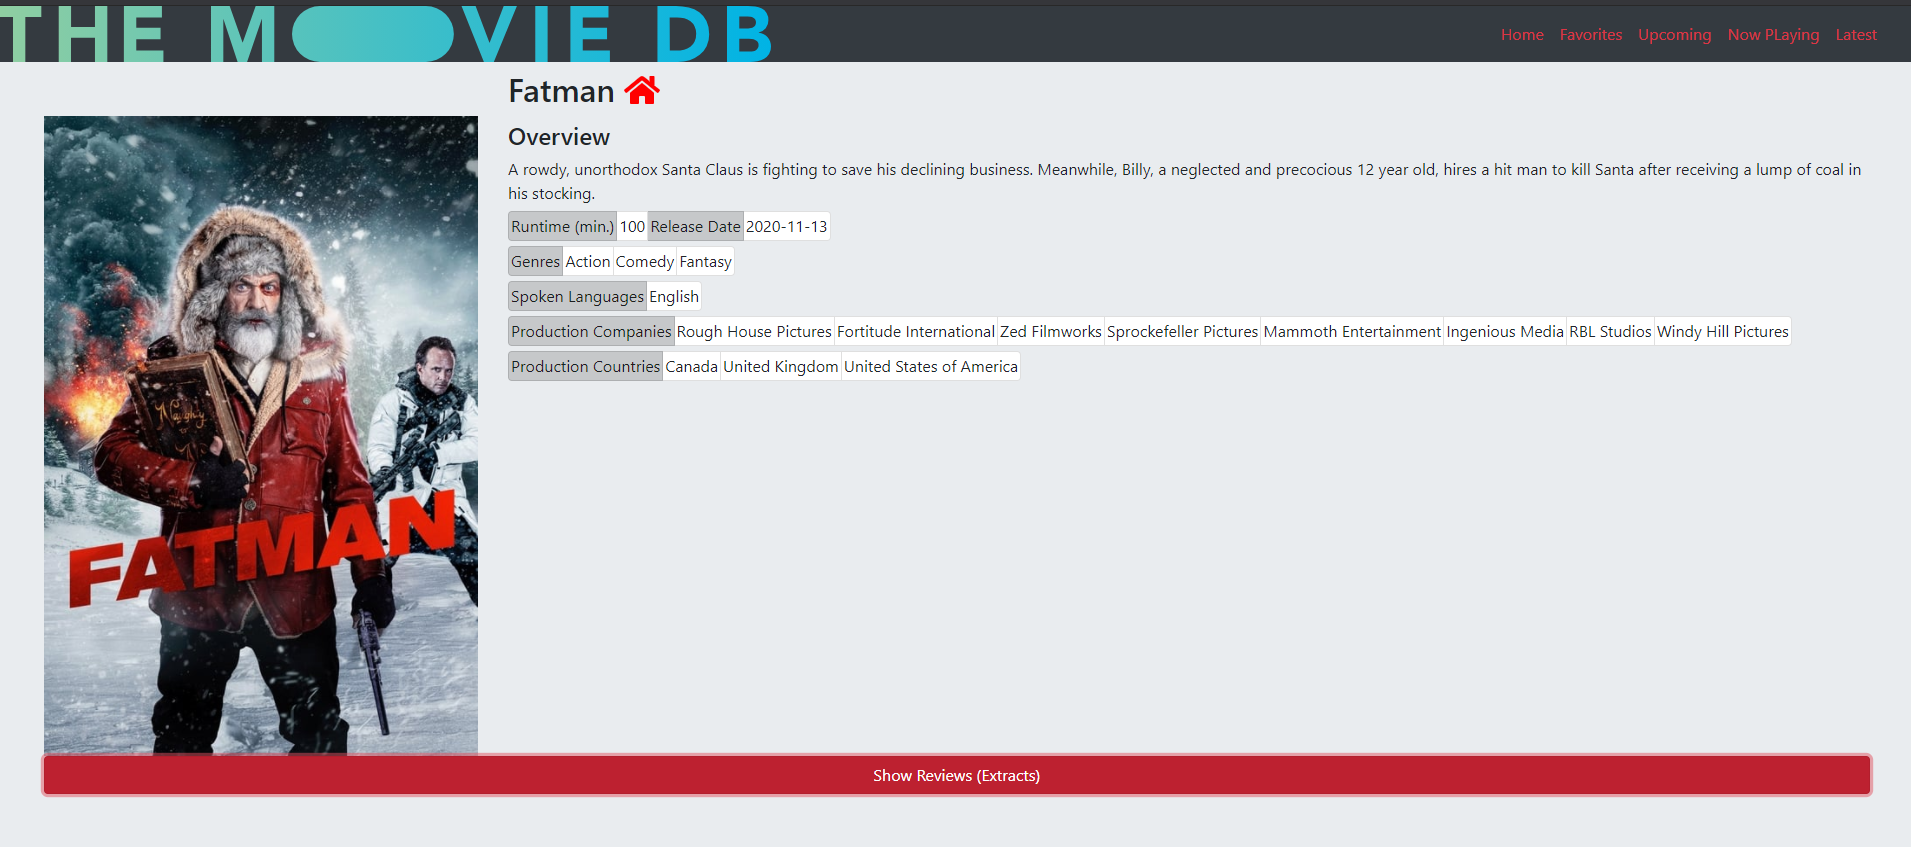
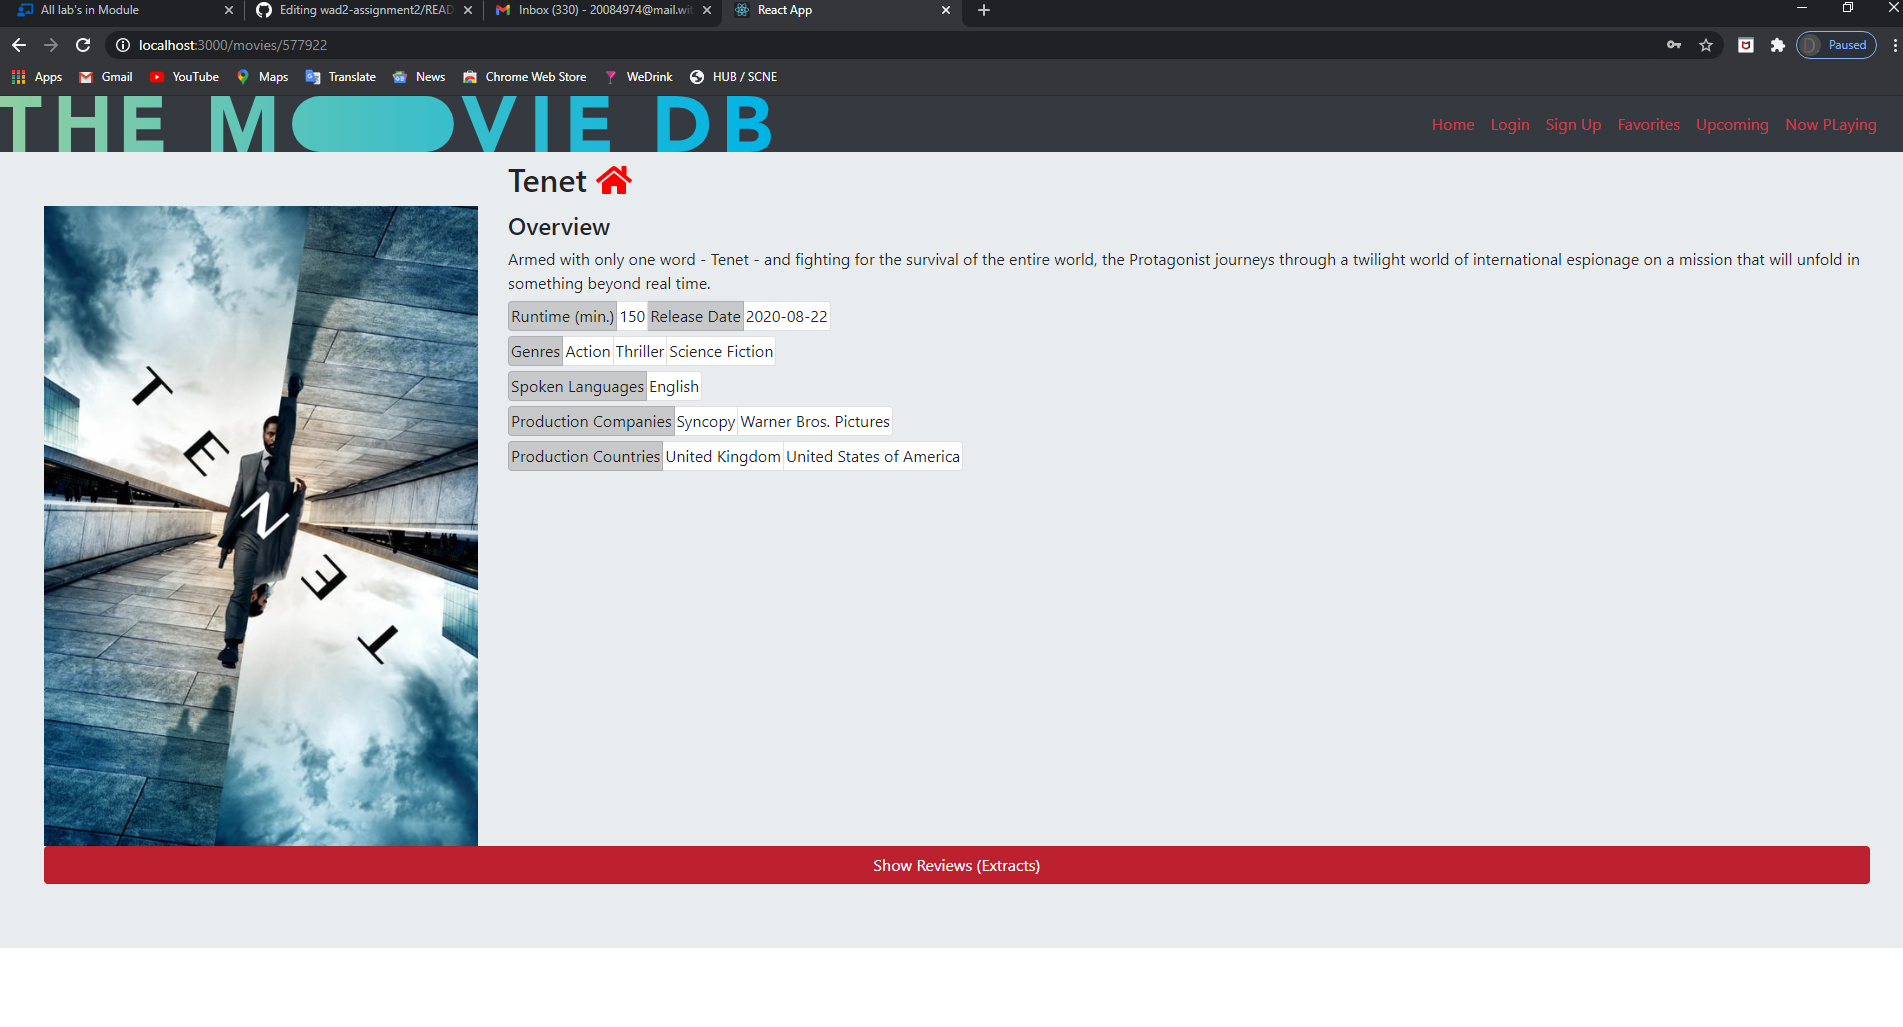
added login and sign up

diff --git a/moviesApp/src/index.js b/moviesApp/src/index.js
@@ -1,6 +1,11 @@
 import React from "react";
 import ReactDOM from "react-dom";
 import "../node_modules/bootstrap/dist/css/bootstrap.css";
+import LoginPage from "./pages/loginPage";
+import SignUpPage from "./pages/signUpPage";
+import PrivateRoute from "./routes/privateRoute";
+import AuthProvider from "./contexts/authContext";
+import UserHomePage from "./pages/userHomePage"
 import HomePage from "./pages/homePage";
 import MoviePage from './pages/movieDetailsPage'
 import { BrowserRouter, Route, Redirect, Switch, Link } from "react-router-dom"   
@@ -18,24 +23,29 @@ const App = () => {
   return (
       <BrowserRouter>
         <div className="jumbotron">
+          <AuthProvider>
           <SiteHeader />      {}
           <div className="container-fluid">
           <MoviesContextProvider>     {}
           <GenresContextProvider>    {}
             <Switch>
-          <Route exact path="/reviews/form" component={AddMovieReviewPage} />    
-          <Route path="/reviews/:id" component={MovieReviewPage} />
-          <Route exact path="/movies/favorites" component={FavoriteMoviesPage} />
-          <Route exact path="/movies/upcoming" component={UpcomingMovies}/>
-          <Route exact path="/movies/nowplaying" component={NowPlayingMovies}/>
-          <Route exact path="/movies/latest" component={LatestMovies}/>
-          <Route path="/movies/:id" component={MoviePage} />
+          <PrivateRoute exact path="/reviews/form" component={AddMovieReviewPage} />    
+          <PrivateRoute path="/reviews/:id" component={MovieReviewPage} />
+          <PrivateRoute exact path="/movies/favorites" component={FavoriteMoviesPage} />
+          <PrivateRoute exact path="/movies/upcoming" component={UpcomingMovies}/>
+          <PrivateRoute exact path="/movies/nowplaying" component={NowPlayingMovies}/>
+          <PrivateRoute exact path="/movies/latest" component={LatestMovies}/>
+          <PrivateRoute path="/movies/:id" component={MoviePage} />
+          <PrivateRoute path="/home" component={UserHomePage}/>
+          <Route exact path="/login" component={LoginPage} />
+          <Route path="/signup" component={SignUpPage} />
           <Route path="/" component={HomePage} />
           <Redirect from="*" to="/" />
         </Switch>
         </GenresContextProvider>    
         </MoviesContextProvider>   
       </div>
+      </AuthProvider>
     </div>
   </BrowserRouter>
   );

diff --git a/moviesApp/src/pages/signUpPage.js b/moviesApp/src/pages/signUpPage.js
@@ -1,0 +1,54 @@
+import React, { useContext, useState } from "react";
+import { Redirect } from "react-router-dom";
+import { AuthContext } from '../contexts/authContext';
+import { Input, Button, Icon, Form, Label } from "semantic-ui-react";
+
+const SignUpPage = props => {
+  const context = useContext(AuthContext)
+  const [userName, setUserName] = useState("");
+  const [password, setPassword] = useState("");
+  const [passwordAgain, setPasswordAgain] = useState("");
+  const [registered, setRegistered] = useState(false);
+
+  const register = () => {
+    if (password.length > 0 && password === passwordAgain) {
+      context.register(userName, password);
+      setRegistered(true);
+    }
+  }
+
+
+
+  if (registered === true) {
+    return <Redirect to="/login" />;
+  }
+
+  return (
+    <>
+      <br></br>
+      <h2>SignUp page</h2>
+      <p>You must register a username and password to log in </p>
+      <div className="row">
+      <div className="col-3">
+      <Form>
+        <Form.Field>
+          <label>Username</label>
+          <input value={userName} placeholder="Username" onChange={e => {setUserName(e.target.value);}}></input><br />
+        </Form.Field>
+        <Form.Field>
+          <label>Password</label>
+          <input value={password} type="password" placeholder="password" onChange={e => {setPassword(e.target.value);}}></input><br />
+        </Form.Field>
+        <Form.Field>
+          <label>Password Again</label>
+          <input value={passwordAgain} type="password" placeholder="password again" onChange={e => {setPasswordAgain(e.target.value);}}></input><br />
+        </Form.Field>
+      <Button type='submit' onClick={register}>Register</Button>
+      </Form>
+      </div>
+      </div>
+    </>
+  );
+};
+
+export default SignUpPage;

diff --git a/moviesApp/src/contexts/authContext.js b/moviesApp/src/contexts/authContext.js
@@ -1,0 +1,51 @@
+import React, { useState, createContext } from "react";
+import { login, signup } from "../api/movie-api";
+
+export const AuthContext = createContext(null);
+
+const AuthContextProvider = (props) => {
+  const existingToken = localStorage.getItem("token");
+  const [isAuthenticated, setIsAuthenticated] = useState(false);
+  const [authToken, setAuthToken] = useState(existingToken);
+  const [userName, setUserName] = useState("");
+
+  const setToken = (data) => {
+    localStorage.setItem("token", data);
+    setAuthToken(data);
+  }
+
+  const authenticate = async (username, password) => {
+    const result = await login(username, password);
+    if (result.token) {
+      setToken(result.token)
+      setIsAuthenticated(true);
+      setUserName(username);
+    }
+  };
+
+  const register = async (username, password) => {
+    const result = await signup(username, password);
+    console.log(result.code);
+    return (result.code == 201) ? true : false;
+  };
+
+  const signout = () => {
+    setTimeout(() => setIsAuthenticated(false), 100);
+  }
+
+  return (
+    <AuthContext.Provider
+      value={{
+        isAuthenticated,
+        authenticate,
+        register,
+        signout,
+        userName
+      }}
+    >
+      {props.children}
+    </AuthContext.Provider>
+  );
+};
+
+export default AuthContextProvider;

diff --git a/moviesApp/src/components/loginForm/index.js b/moviesApp/src/components/loginForm/index.js
@@ -1,0 +1,39 @@
+import React, { useContext, useState } from "react";
+import { Redirect } from "react-router-dom";
+import { AuthContext } from '../../contexts/authContext';
+import { Link } from "react-router-dom";
+import { withRouter } from "react-router-dom";
+
+const LoginForm = props => {
+  const context = useContext(AuthContext)
+  const [userName, setUserName] = useState("");
+  const [password, setPassword] = useState("");
+
+  const login = () => {
+    context.authenticate(userName, password);
+  };
+
+  const { from } = props.location.state || { from: { pathname: "/" } };
+
+  if (context.isAuthenticated === true) {
+    return <Redirect to={from} />;
+  }
+  return (
+    <>
+      <h2>Login page</h2>
+      <p>You must log in to view the protected pages</p>
+      <input id="username" placeholder="user name" onChange={e => {
+        setUserName(e.target.value);
+      }}></input><br />
+      <input id="password" type="password" placeholder="password" onChange={e => {
+        setPassword(e.target.value);
+      }}></input><br />
+      {/* Login web form  */}
+      <button onClick={login}>Log in</button>
+      <p>Not Registered?
+      <Link to="/signup">Sign Up!</Link></p>
+    </>
+  );
+};
+
+export default withRouter(LoginForm);

diff --git a/moviesApp/src/components/siteHeader/index.js b/moviesApp/src/components/siteHeader/index.js
@@ -11,8 +11,18 @@ const SiteHeader = () => {
       <nav className="navbar navbar-expand ">
         <ul className="navbar-nav">
           <li className="nav-item">
-            <Link className="nav-link text-danger" to="/">
+            <Link className="nav-link text-danger" to="/home">
               Home
+            </Link>
+          </li>
+          <li className="nav-item">
+            <Link className="nav-link text-danger" to="/login">
+              Login
+            </Link>
+          </li>
+          <li className="nav-item">
+            <Link className="nav-link text-danger" to="/signUp">
+              Sign Up
             </Link>
           </li>
           <li className="nav-item">
@@ -28,11 +38,6 @@ const SiteHeader = () => {
           <li className="nav-item">
             <Link className="nav-link text-danger" to="/movies/nowplaying">
               Now PLaying
-            </Link>
-          </li>
-          <li className="nav-item">
-            <Link className="nav-link text-danger" to="/movies/latest">
-              Latest
             </Link>
           </li>
         </ul>

diff --git a/moviesApp/src/pages/homePage.js b/moviesApp/src/pages/homePage.js
@@ -1,23 +1,11 @@
-import React, { useContext } from "react";
-import PageTemplate from '../components/templateMovieListPage'
-import {MoviesContext} from '../contexts/moviesContext'
-import AddToFavoritesButton from '../components/buttons/addToFavorites'
+import React from "react";
+import PageTemplate from '../components/templateLoginPage'
 
-const MovieListPage = () => {
-  const context = useContext(MoviesContext);
-  const movies = context.movies.filter((m) => {  
-    return !("favorite" in m);
-  });
 
+const HomePage = () => {
   return (
-    <PageTemplate
-      title="No. Movies"
-      movies={movies}  
-      action={(movie) => {
-        return <AddToFavoritesButton movie={movie} />;
-      }}
-    />
+      <PageTemplate></PageTemplate>
   );
 };
 
-export default MovieListPage;
+export default HomePage;

diff --git a/moviesApp/src/pages/userHomePage.js b/moviesApp/src/pages/userHomePage.js
@@ -1,0 +1,23 @@
+import React, { useContext } from "react";
+import PageTemplate from '../components/templateMovieListPage'
+import {MoviesContext} from '../contexts/moviesContext'
+import AddToFavoritesButton from '../components/buttons/addToFavorites'
+
+const MovieListPage = () => {
+  const context = useContext(MoviesContext);
+  const movies = context.movies.filter((m) => {  
+    return !("favorite" in m);
+  });
+
+  return (
+    <PageTemplate
+      title="No. Movies"
+      movies={movies}  
+      action={(movie) => {
+        return <AddToFavoritesButton movie={movie} />;
+      }}
+    />
+  );
+};
+
+export default MovieListPage;

diff --git a/moviesApp/src/routes/privateRoute.js b/moviesApp/src/routes/privateRoute.js
@@ -1,0 +1,22 @@
+import React, { useContext} from "react";
+import { Route, Redirect } from "react-router-dom";
+import {AuthContext} from '../contexts/authContext'
+
+const PrivateRoute = props => {
+  const context = useContext(AuthContext)
+ 
+  const { component: Component, ...rest } = props;
+  console.log(props.location)
+  return context.isAuthenticated === true ? (
+    <Route {...rest} render={props => <Component {...props} />} />
+  ) : (
+    <Redirect
+      to={{
+        pathname: "/login",
+        state: { from: props.location }
+      }}
+    />
+  );
+};
+
+export default PrivateRoute;

diff --git a/moviesApp/src/pages/upcomingMovies.js b/moviesApp/src/pages/upcomingMovies.js
@@ -2,7 +2,6 @@ import React, {useContext} from "react";
 import MoviesListPageTemplate from "../components/templateMovieListPage";
 import {MoviesContext} from '../contexts/moviesContext';
 
-/* Created a new upcoming movies page using code similar to the favourites page*/
 const UpcomingMovies = () => {
     const context = useContext(MoviesContext);
     const upcomingMovies = context.upcoming.filter( (m) => {

diff --git a/movies-api/index.js b/movies-api/index.js
@@ -14,8 +14,6 @@ import passport from './authenticate';
 dotenv.config();
 
 const errHandler = (err, req, res, next) => {
-  /* if the error in development then send stack trace to display whole error,
-  if it's in production then just send error message  */
   if(process.env.NODE_ENV === 'production') {
     return res.status(500).send(`Something went wrong!`);
   }

diff --git a/moviesApp/src/components/templateLoginPage/index.js b/moviesApp/src/components/templateLoginPage/index.js
@@ -1,0 +1,14 @@
+import React from "react";
+
+const TemplateLoginPage = ({children}) => {
+  return (
+      <>
+        <div className="row">
+            <div className="col-3">{children}</div>
+            <p> Please Login to see movies, or sign up and make an account!</p>
+        </div>
+      </>
+  );
+};
+
+export default TemplateLoginPage;

diff --git a/moviesApp/src/pages/loginPage.js b/moviesApp/src/pages/loginPage.js
@@ -1,0 +1,17 @@
+import React from "react";
+import PageTemplate from '../components/templateLoginPage';
+import LoginForm from '../components/loginForm';
+
+const LoginPage = props => {
+  
+  return (
+    <>
+    <br></br>
+    <PageTemplate>
+      <LoginForm></LoginForm>
+    </PageTemplate>
+    </>
+  )
+};
+
+export default LoginPage; 
